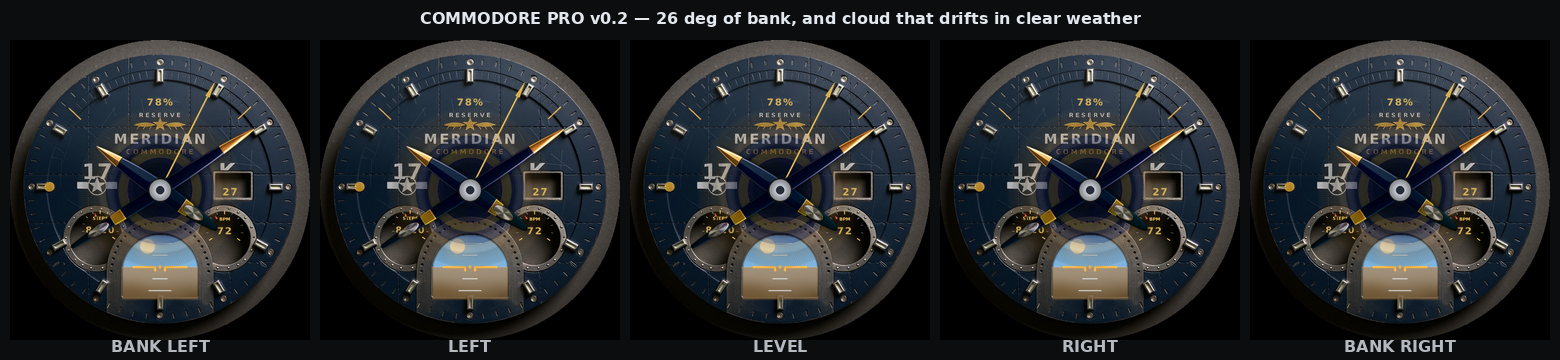
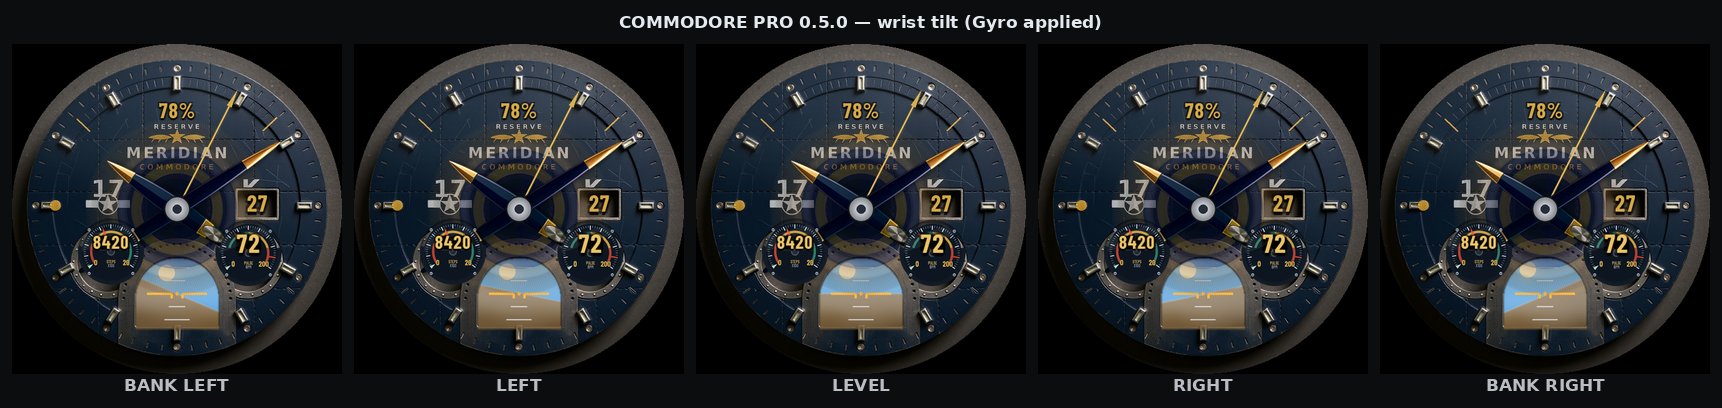
The renderer ignored Gyro, so every tilt sheet before this was a lie
render_face_from_xml.py had no <Gyro> handling at all. It read Transform and
skipped Gyro silently, which means every "wrist tilt" sheet it has ever
produced was five identical panels with different captions — and one of them
was offered as proof that COMMODORE PRO's horizon banks. It was not proof of
anything. That claim is withdrawn and re-made below on evidence.

Gyro is now applied: its angle, x and y expressions are evaluated against the
data environment and ADDED to the part's own angle/x/y rather than replacing
them, so a layer can scroll on a timer and lean with the wrist at once, which
is what the cloud layers do.

With it applied, the horizon does bank and the aircraft symbol does stay
level — review/TILT_WINDOW.png, which crops to the aperture because at a
quarter of the dial's width the effect cannot be judged from a whole-face
thumbnail.

WHAT THIS DOES AND DOES NOT ESTABLISH. It establishes that the XML expresses
the intended geometry. It does NOT establish that the watch does it: this is
an approximation of the compositor, not the compositor. The evidence that
Gyro works on this hardware is HAYATE, which ships six Gyro-only parts and
whose viewfinder the owner has seen respond.

No regression: all seven faces render byte-identically at the fixture's
neutral wrist angle, because Gyro contributes zero at zero.

This is the third time in this session a tool has been quietly more
permissive or less complete than the device — min()/max() the format lacks,
[…]

Changed region(s): [[0.2154, 0.0306, 1.0, 0.9778], [0.0, 0.0917, 0.1846, 0.9778]]

diff --git a/tools/render_face_from_xml.py b/tools/render_face_from_xml.py
@@ -348,14 +348,30 @@ def compose(root, font, env, ambient: bool, skip: set[str] | None = None,
             else float(part.get("y", 0))
         w, h = int(part.get("width")), int(part.get("height"))
 
+        # <Gyro> — THE WRIST RESPONSE, WHICH THIS RENDERER USED TO IGNORE
+        # ENTIRELY. Every tilt sheet produced before this was therefore
+        # identical across its panels, and one was presented as evidence
+        # that a horizon banked. It contributes offsets that ADD to the
+        # part's own angle/x/y rather than replacing them, so a layer can
+        # scroll on a timer and lean with the wrist at the same time.
+        gy = part.find("Gyro")
+        g_ang = g_x = g_y = 0.0
+        if gy is not None:
+            g_ang = evaluate(gy.get("angle", "0"), env)
+            g_x = evaluate(gy.get("x", "0"), env)
+            g_y = evaluate(gy.get("y", "0"), env)
+            x += g_x
+            y += g_y
+
         if part.tag == "PartImage":
             res = part.find("Image").get("resource")
             with Image.open(resource(res)) as im:
                 layer = im.convert("RGBA")
             if layer.size != (w, h):
                 layer = layer.resize((w, h), Image.LANCZOS)
-            if "angle" in transforms:
-                angle = evaluate(transforms["angle"], env)
+            angle = (evaluate(transforms["angle"], env)
+                     if "angle" in transforms else 0.0) + g_ang
+            if angle:
                 px = float(part.get("pivotX", 0.5)) * w
                 py = float(part.get("pivotY", 0.5)) * h
                 layer = layer.rotate(-angle, resample=Image.BICUBIC,
